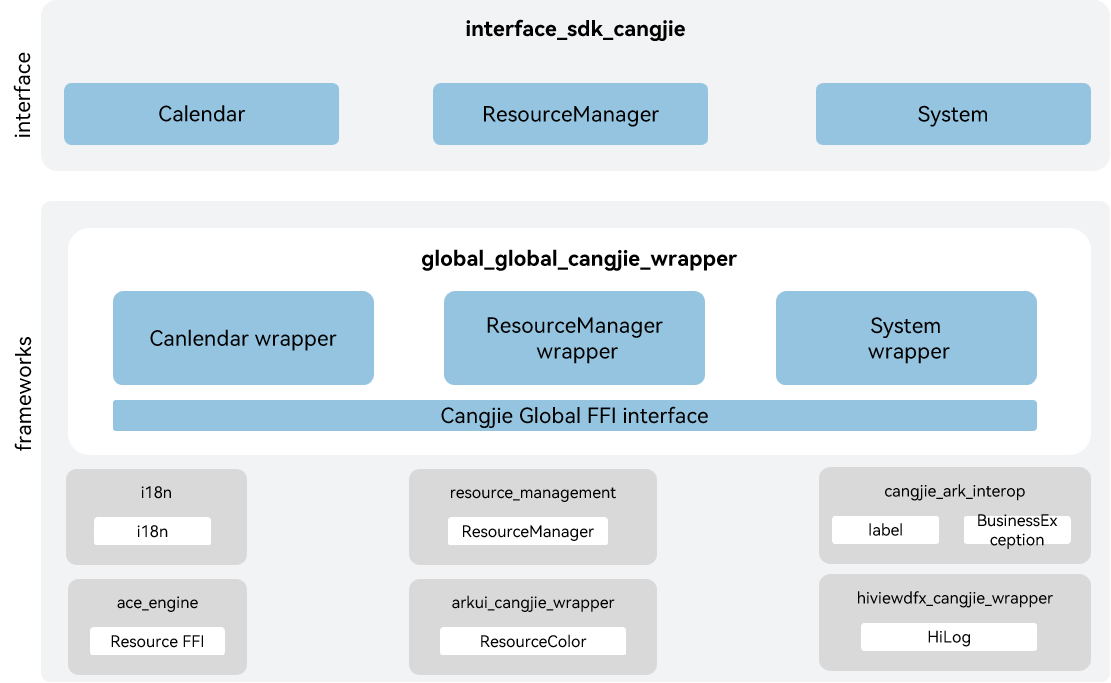
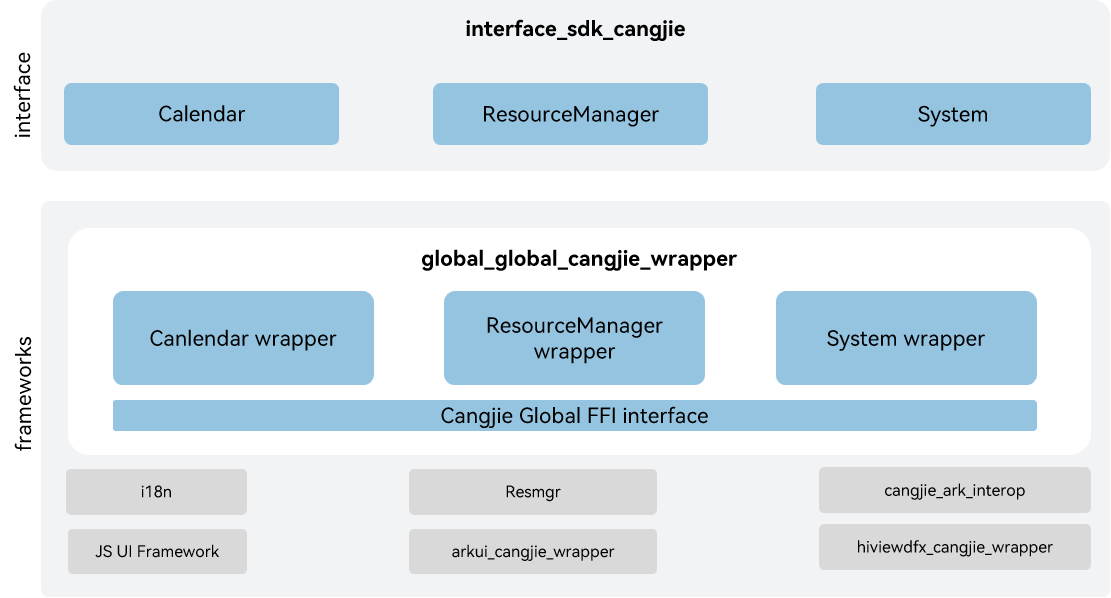
update README

diff --git a/README.md b/README.md
@@ -2,7 +2,7 @@
 
 ## Introduction
 
-The global_cangjie_wrapper is a Cangjie API encapsulated on OpenHarmony based on the capabilities of the global Subsystem. If OpenHarmony systems or applications need to be used globally, they must meet the requirements of users in different regions on languages and cultures. The Globalization subsystem provides the multi-language and multi-cultural capabilities for global use, including:
+If OpenHarmony systems or applications need to be used globally, they must meet the requirements of users in different regions on languages and cultures. The Globalization subsystem provides the multi-language and multi-cultural capabilities for global use, including:
 
 -   **Resource management**
 
@@ -22,14 +22,26 @@ The currently open Ability Cangjie api only supports standard devices.
 
 As shown in the architecture:
 
+Interface:
+
 - Calendar: Provides the capability to obtain and set calendar properties, such as time, time zone, etc.
 - ResourceManager: Provides the capability for application resource acquisition.
 - System: Provides the capability to obtain the application's preferred language.
+
+Framework:
+
+- Calendar wrapper: Implementation encapsulation of Cangjie Calendar, providing Calendar capabilities.
+- ResourceManager wrapper: Implementation encapsulation of Cangjie ResourceManager, providing ResourceManager capabilities.
+- System wrapper: Provides Implementation encapsulation of Cangjie System, providing System capabilities.
 - Cangjie Global FFI interface: Based on cross-language interoperability via C Language interfaces to implement global Cangjie API.
+
+- Explanation of Dependencies in the Architecture Diagram:
+
 - i18n: Responsible for providing basic internationalization functions, and encapsulates C Language interfaces for Cangjie to conduct interoperation.
-- resource_management: Responsible for providing basic resource management functions, and encapsulates C Language interfaces for Cangjie to conduct interoperation.
-- arkui_cangjie_wrapper: Responsible for providing interface definitions such as ResourceColor, which are used to implement the AppResource class.
+- Resmgr: Responsible for providing basic resource management functions, and encapsulates C Language interfaces for Cangjie to conduct interoperation.
 - cangjie_ark_interop: Responsible for providing Cangjie APILevel class definitions, which are used to annotate APIs, as well as providing the definition of BusinessException class that is thrown to users.
+- JS UI Framework: responsible for providing FFI interfaces related to Resource, which are used to operate application resources.
+- arkui_cangjie_wrapper: Responsible for providing interface definitions such as ResourceColor, which are used to implement the AppResource class.
 - hiviewdfx_cangjie_wrapper: Responsible for providing logging interfaces, which are used to print logs at key points in the execution path.
 
 ## Directory Structure
@@ -58,17 +70,19 @@ The following features are provided:
 - ResourceManager provides the capability for application resource acquisition.
 - System provides the capability to obtain the application's preferred language.
 
-The following features are not provided yet:
-
-- Date formatting, number formatting, and sorting.
-- Functions such as region management, phone number processing, text processing, time zone and holiday management.
-- Cross-thread transmission of resource objects.
-
 For Global-related APIs, please refer to
 1. [Internationalization](https://gitcode.com/openharmony-sig/arkcompiler_cangjie_ark_interop/blob/master/doc/API_Reference/source_en/apis/LocalizationKit/cj-apis-i18n.md)
 2. [Resource Management](https://gitcode.com/openharmony-sig/arkcompiler_cangjie_ark_interop/blob/master/doc/API_Reference/source_en/apis/LocalizationKit/cj-apis-resource_manager.md)
 
 For relevant guidance, please refer to [Internationalization Development Guide](https://gitcode.com/openharmony-sig/arkcompiler_cangjie_ark_interop/tree/master/doc/Dev_Guide/source_en/internationalization)
+
+## Constraints
+
+The following features are not provided yet:
+
+- Date formatting, number formatting, and sorting.
+- Functions such as region management, phone number processing, text processing, time zone and holiday management.
+- Cross-thread transmission of resource objects.
 
 ## Code Contribution
 

diff --git a/README_zh.md b/README_zh.md
@@ -1,8 +1,8 @@
-# 全球化仓颉接口
+# 全球化仓颉封装
 
 ## 简介
 
-全球化仓颉接口是在OpenHarmony上基于全球化子系统能力之上封装的仓颉API。当OpenHarmony系统/应用在全球不同区域使用时，系统/应用需要满足不同市场用户关于语言、文化习俗的需求。全球化仓颉提供支持多语言、多文化的能力，包括：
+当OpenHarmony系统/应用在全球不同区域使用时，系统/应用需要满足不同市场用户关于语言、文化习俗的需求。全球化仓颉提供支持多语言、多文化的能力，包括：
 
 - **资源管理能力**
 
@@ -22,14 +22,26 @@
 
 如架构图所示：
 
+接口层：
+
 - 日历：提供获取和设置日历属性的能力，如时间，时区等。
-- 资源管理（接口层）：提供获取应用资源的能力。
+- 资源管理：提供获取应用资源的能力。
 - 系统配置：提供获取应用偏好语言能力。
+
+框架层：
+
+- 日历封装：仓颉日历的实现封装，提供日历能力。
+- 资源管理封装：仓颉资源管理的实现封装，提供资源管理能力。
+- 系统配置封装：仓颉系统配置的实现封装，提供系统配置能力。
 - 仓颉全球化FFI接口定义：负责定义C语言互操作仓颉接口，用于实现全球化的能力。
-- 国际化：负责提供国际化基础功能，封装C语言接口提供给仓颉进行互操作。
-- 资源管理（框架层）：负责提供资源管理基础功能，封装C语言接口提供给仓颉进行互操作。
-- arkui_cangjie_wrapper：负责提供ResourceColor等接口定义，用于实现AppResource类。
+
+架构图中的依赖部件引入说明：
+
+- 国际化部件：负责提供国际化基础功能，封装C语言接口提供给仓颉进行互操作。
+- 资源管理组件：负责提供资源管理基础功能，封装C语言接口提供给仓颉进行互操作。
 - cangjie_ark_interop：负责提供仓颉注解类定义，用于对API进行标注，以及提供抛向用户的BusinessException异常类定义。
+- ArkUI开发框架：负责提供Resource相关FFI接口，用于操作应用资源。
+- arkui_cangjie_wrapper：负责提供ResourceColor等接口定义，用于实现AppResource类。
 - hiviewdfx_cangjie_wrapper：负责提供日志接口，用于在关键路径处打印日志。
 
 ## 目录
@@ -58,17 +70,19 @@ base/global/global_cangjie_wrapper
 - 资源管理提供应用资源获取的能力。
 - 系统配置提供获取应用偏好语言能力。
 
-与ArkTS提供的API能力相比，暂不支持以下功能：
-
-- 日期格式化、数字格式化、排序。
-- 区域管理、电话号码处理、文本处理、时区和节假日管理等功能。
-- 跨线程传输资源对象。
-
 全球化相关API请参见：
 1. [国际化](https://gitcode.com/openharmony-sig/arkcompiler_cangjie_ark_interop/blob/master/doc/API_Reference/source_zh_cn/apis/LocalizationKit/cj-apis-i18n.md)
 2. [资源管理](https://gitcode.com/openharmony-sig/arkcompiler_cangjie_ark_interop/blob/master/doc/API_Reference/source_zh_cn/apis/LocalizationKit/cj-apis-resource_manager.md)
 
 相关指导请参见[国际化开发指南](https://gitcode.com/openharmony-sig/arkcompiler_cangjie_ark_interop/tree/master/doc/Dev_Guide/source_zh_cn/internationalization)。
+
+## 约束
+
+与ArkTS提供的API能力相比，暂不支持以下功能：
+
+- 日期格式化、数字格式化、排序。
+- 区域管理、电话号码处理、文本处理、时区和节假日管理等功能。
+- 跨线程传输资源对象。
 
 ## 参与贡献
 
